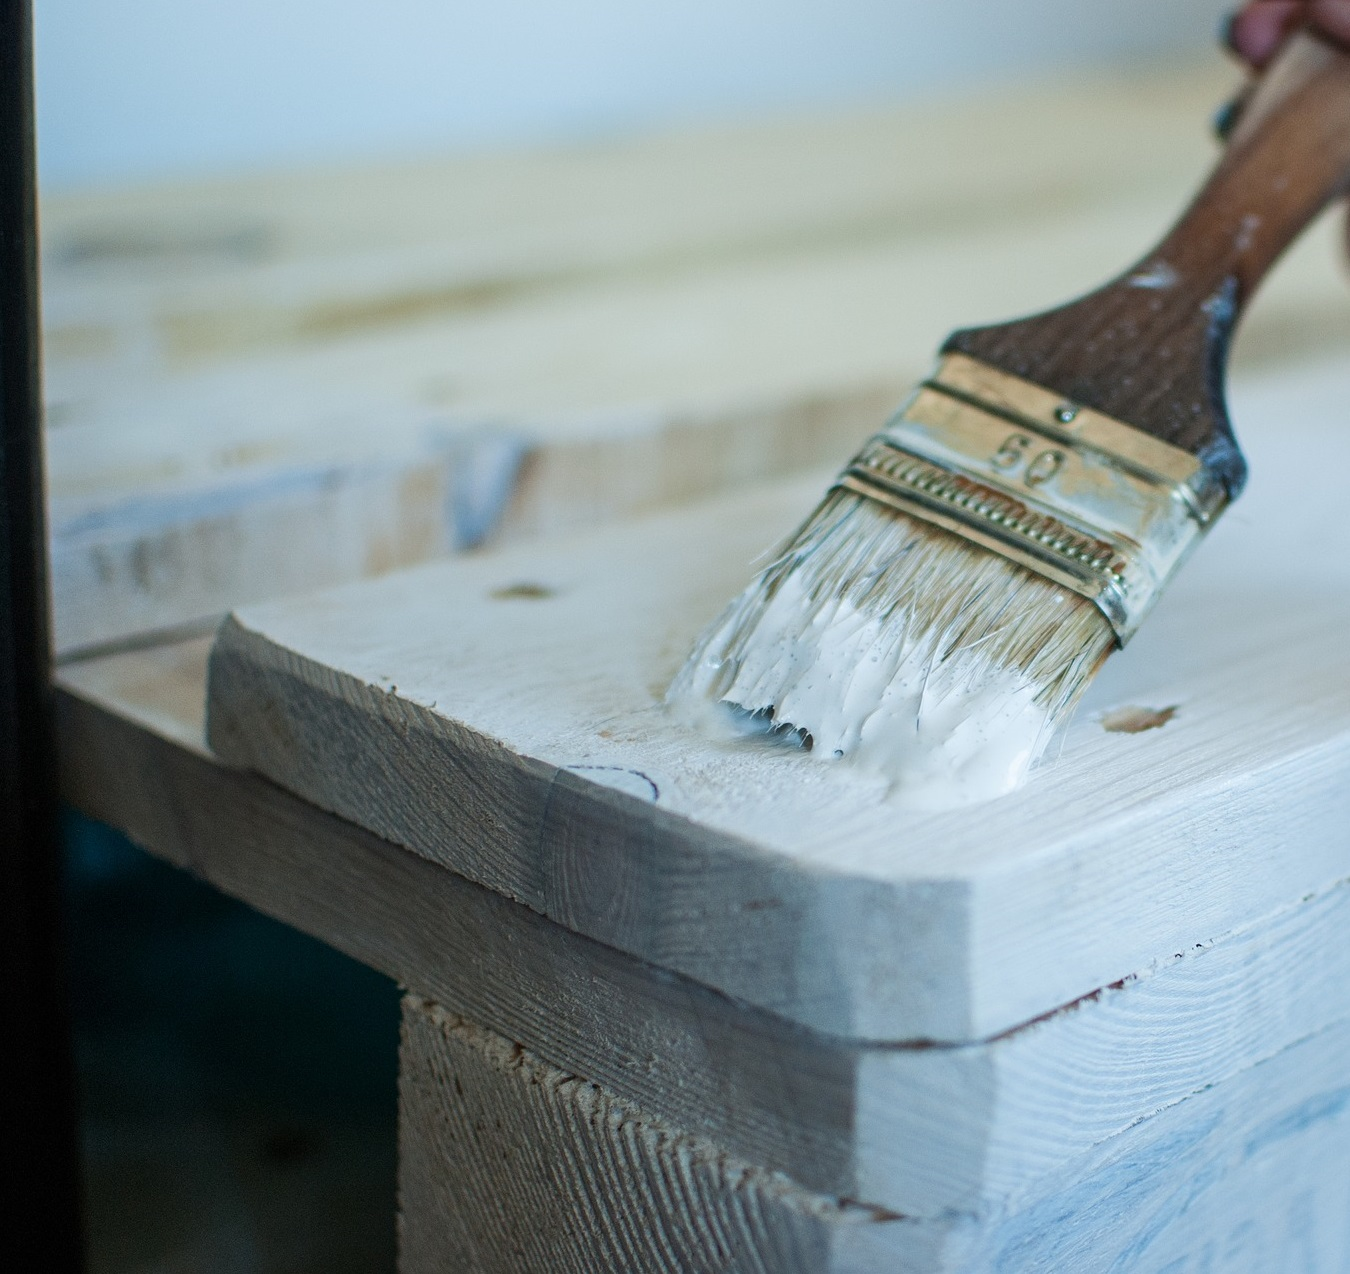
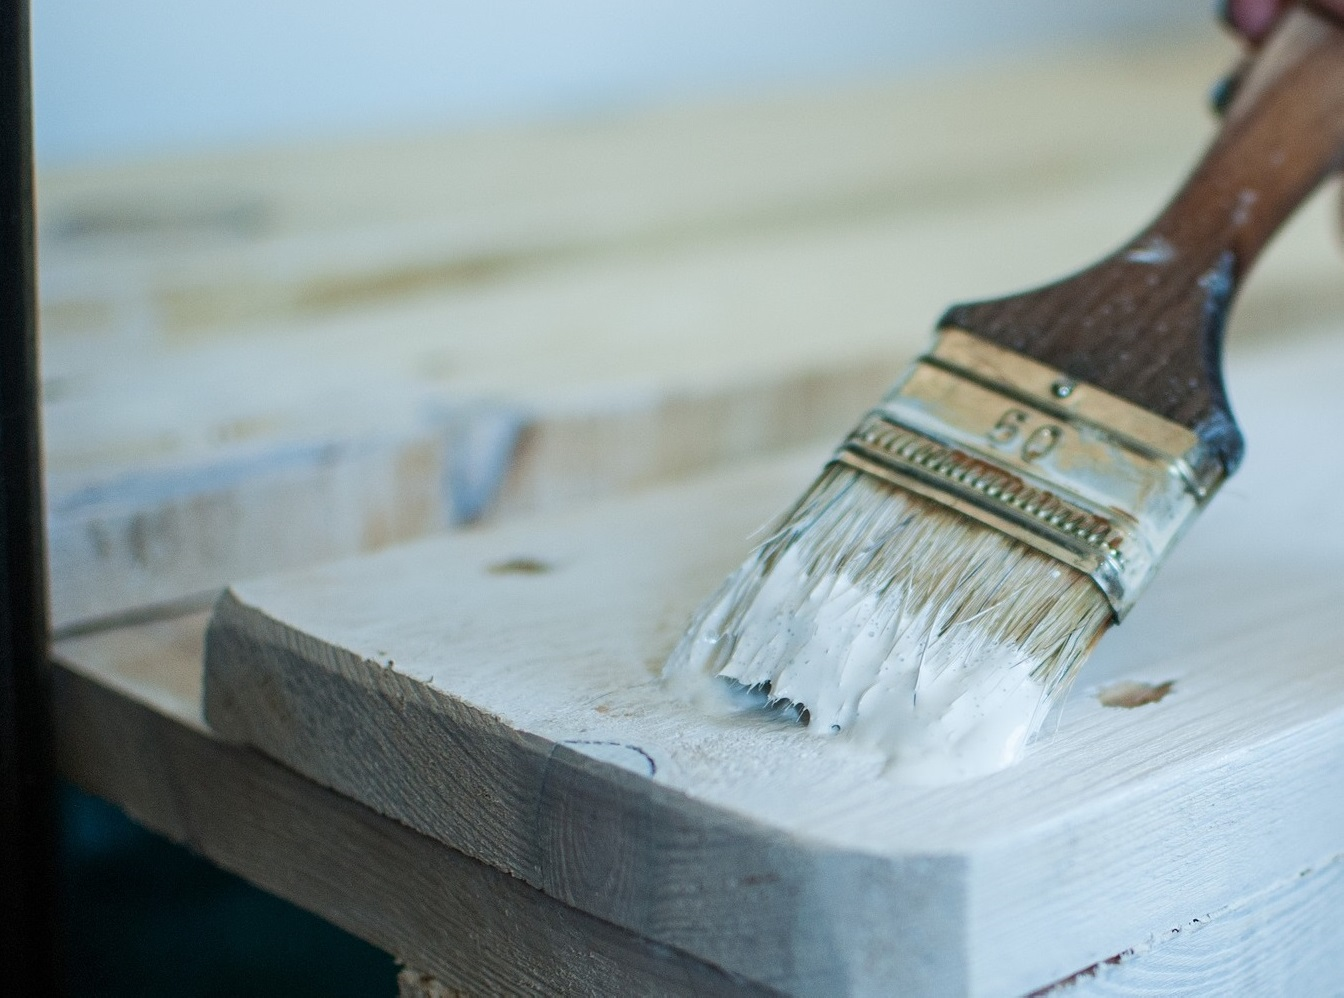
added pictures, removed stock photos, updated img sizing and alignment

diff --git a/content/gallery.html b/content/gallery.html
@@ -36,8 +36,8 @@ weight: 70
                     </a>
                 </div>
                 <div class="one-third column">
-                    <a href="/img/painting-interior-white.jpg" title="interior doors">
-                        <img style="width:100%;" src="/img/painting-interior-white.jpg" alt="interior doors" title="interior doors" />
+                    <a href="/img/about_house.jpg" title="interior doors">
+                        <img style="width:100%;" src="/img/about_house.jpg" alt="residential exterior" title="residential exterior" />
                     </a>
                 </div>
                 </div>
@@ -53,31 +53,32 @@ weight: 70
                     </a>
                   </div>
                   <div class="one-third column">
-                    <a href="/img/FU/interior-restoration.jpg" title="Interior Trim Work">
-                        <img style="width:100%;" src="/img/FU/interior-restoration.jpg" alt="Interior Trim Work" title="Interior Trim Work" />
+                    <a href="/img/exterior-blue-stairs.jpg" title="Interior Trim Work">
+                        <img style="width:100%;" src="/img/exterior-blue-stairs.jpg" alt="Interior Trim Work" title="Interior Trim Work" />
                     </a>
                   </div>
                 </div>
                 <div class="row">
                   <div class="one-third column">
-                      <a href="/img/white-house-on-the-prarie.jpg" title="Rural Restoration">
-                          <img style="width:100%;" src="/img/white-house-on-the-prarie.jpg" alt="rural restoration Work" title="Rural Restoration" />
+                      <a href="/img/Angel-Green-interior.jpg" title="Rural Restoration">
+                          <img style="width:100%;" src="/img/Angel-Green-interior.jpg" alt="power wash" title="Powerwash" style="height:350px;overflow:hidden;display:block;margin-bottom:8px" />
                       </a>
                   </div>
 
                   <div class="one-third column">
                     <!-- this image needs work-->
-                    <a href="/img/exterior-residential-front.PNG" title="Roof Trim Work" style="height:130px;overflow:hidden;display:block;">
-                        <img style="width:100%;" src="/img/exterior-residential-front.PNG" alt="Roof Trim Work" title="Roof Trim Work" />
+                    <a href="/img/exterior-residential-front.PNG" title="Roof Trim Work">
+                        <img style="width:100%;" src="/img/exterior-residential-front.PNG" alt="Roof Trim Work" title="Roof Trim Work" style="height:300px;overflow:hidden;display:block;margin-bottom:8px"/>
                     </a>
                   </div>
                   <div class="one-third column">
-                    <a href="/img/about_house.jpg" title="residential exterior">
-                        <img style="width:100%;" src="/img/about_house.jpg" alt="residential exterior" title="residential exterior" />
+                    <a href="/img/Bj_powerwashing.PNG" title="residential exterior">
+                        <img style="width:100%;" src="/img/Bj_powerwashing.PNG" alt="residential exterior" title="residential exterior" style="height:300px;overflow:hidden;display:block;margin-bottom:8px"/>
                     </a>
                   </div>
               </div>
-              <div class="row">
+
+              <!-- <div class="row">
                 <div class="one-third column">
                     <a href="/img/FU/interior-closet-painting.jpg" title="Large Interior Closets">
                         <img style="width:100%;" src="/img/FU/interior-closet-painting.jpg" alt="Large Interior Closets" title="Large Interior Closets" />
@@ -110,5 +111,5 @@ weight: 70
                     <img style="width:100%;" src="/img/FU/exterior-blue.jpg" alt="Blue Exterior Restoration" title="Blue Exterior Restoration" />
                 </a>
               </div>
-          </div>
+          </div> -->
         </div>

diff --git a/themes/bjpainting/layouts/index.html b/themes/bjpainting/layouts/index.html
@@ -3,7 +3,7 @@
             <div class="container">
                 <div class="row">
                     <div class="twelve columns" >
-                        <img class="u-max-full-width" alt="Interior photo" src="/img/FU/Exterior-paint-white.jpg">
+                        <img class="u-max-full-width" alt="Interior photo" src="/img/exterior-business-g3.jpg">
                     </div>
                 </div>
             </div>
@@ -18,7 +18,7 @@
                   </div>
                 </div>
                 <div class="one-half column">
-                  <img style="height:275px;" class="u-max-full-width" alt="Interior photo" src="/img/FU/interior-bedroom.jpg">
+                  <img style="height:275px;" class="u-max-full-width" alt="blue_suburban_house" src="/img/about_house.jpg">
                 </div>
             </div>
         </div>
@@ -33,7 +33,7 @@
           <h4>Exterior Restoration Services</h4>
             <div class="row">
                 <div class="five columns">
-                    <img style="height:275px" class="u-max-full-width" alt="Interior photo" src="/img/FU/exterior-blue.jpg">
+                    <img style="height:275px" class="u-max-full-width" alt="Interior photo" src="/img/Exterior-blue-house.jpg">
                 </div>
                 <div class="one column">&nbsp;</div>
                 <div class="six columns" >

diff --git a/content/services/pressureWashing.html b/content/services/pressureWashing.html
@@ -19,13 +19,13 @@ menu:
                           <p>Give those surfaces a facelift with the safe and thorough pressure washing services from Bill Johnston Painting.</p>
                           <h5>Your satisfaction is guaranteed!</h5>
                         </div>
-                        <div class="one-half column">
-                          <img class="u-max-full-width" alt="Interior photo" src="/img/stock/powerwash-driveway.JPG">
+                        <div class="one-half column center">
+                          <img style="height:400px;" class="u-max-full-width" alt="Interior photo" src="/img/Bj_powerwashing.PNG">
                         </div>
                     </div>
                     <div class="row">
                         <div class="one-half column" >
-                          <img class="u-max-full-width" alt="Paint bucket image" src="/img/stock/powerwashing-deck.jpg">
+                          <img style="height:400px;" class="u-max-full-width" alt="Paint bucket image" src="/img/stock/powerwashing-deck.jpg">
                         </div>
                         <div style="padding-left:50px;" class="one-half column" >
                           <h5>Complete Interior Painting and Staining Services</h5>

diff --git a/content/services/exteriorPainting.html b/content/services/exteriorPainting.html
@@ -20,12 +20,12 @@ menu:
                             <h5>Your satisfaction is guaranteed!</h5>
                           </div>
                           <div class="one-half column">
-                            <img class="u-max-full-width" alt="Interior photo" src="/img/FU/Exterior-white-home.jpg">
+                            <img class="u-max-full-width" alt="Exterior residential blue home" src="/img/exterior-blue-house-2.jpg">
                           </div>
                       </div>
                       <div class="row">
-                          <div class="one-half column" >
-                            <img class="u-max-full-width" alt="Paint bucket image" src="/img/stock/stock-painting-roller.jpg">
+                          <div class="one-half column center" >
+                            <img style="height:300px;" class="u-max-full-width" alt="Paint bucket image" src="/img/stock/stock-painting-roller.jpg">
                           </div>
                           <div style="padding-left:50px;" class="one-half column" >
                             <h5>Complete Interior Painting and Staining Services</h5>

diff --git a/content/services/interiorPainting.html b/content/services/interiorPainting.html
@@ -20,12 +20,12 @@ menu:
                   <h5>Your satisfaction is guaranteed!</h5>
                 </div>
                 <div class="one-half column">
-                    <img class="u-max-full-width" alt="Interior photo" src="/img/painting-interior-white.jpg">
+                    <img class="u-max-full-width" alt="Interior photo" src="/img/interior-green.jpg">
                 </div>
             </div>
             <div class="row">
-                <div class="one-half column" >
-                    <img class="u-max-full-width" alt="Paint bucket image" src="/img/stock/stock-paint-bucket-blue.jpg">
+                <div class="one-half column center" >
+                    <img style="height:400px;" class="u-max-full-width" alt="Paint bucket image" src="/img/stock/stock-paint-bucket-blue.jpg">
                 </div>
                 <div style="padding-left:50px;" class="one-half column" >
                   <h5>Complete Interior Painting and Staining Services</h5>

diff --git a/content/services/restoration.html b/content/services/restoration.html
@@ -19,10 +19,9 @@ menu:
                               <p>If you are looking for quality restoration services, look no further!</p>
                               <h5>Your satisfaction is guaranteed!</h5>
                             </div>
-                            <div class="one-half column">
-                              <img class="u-max-full-width" alt="Interior photo" src="/img/stock/stock-paintbrush-white.jpg">
+                            <div class="one-half column center">
+                              <img style="height:400px;" class="u-max-full-width" alt="Interior photo" src="/img/exterior-blue-stairs.jpg"></div>
                             </div>
-                        </div>
                         <div class="row">
                             <div class="one-half column" >
                               <img class="u-max-full-width" alt="Paint bucket image" src="/img/exterior-business-g2.JPG">
